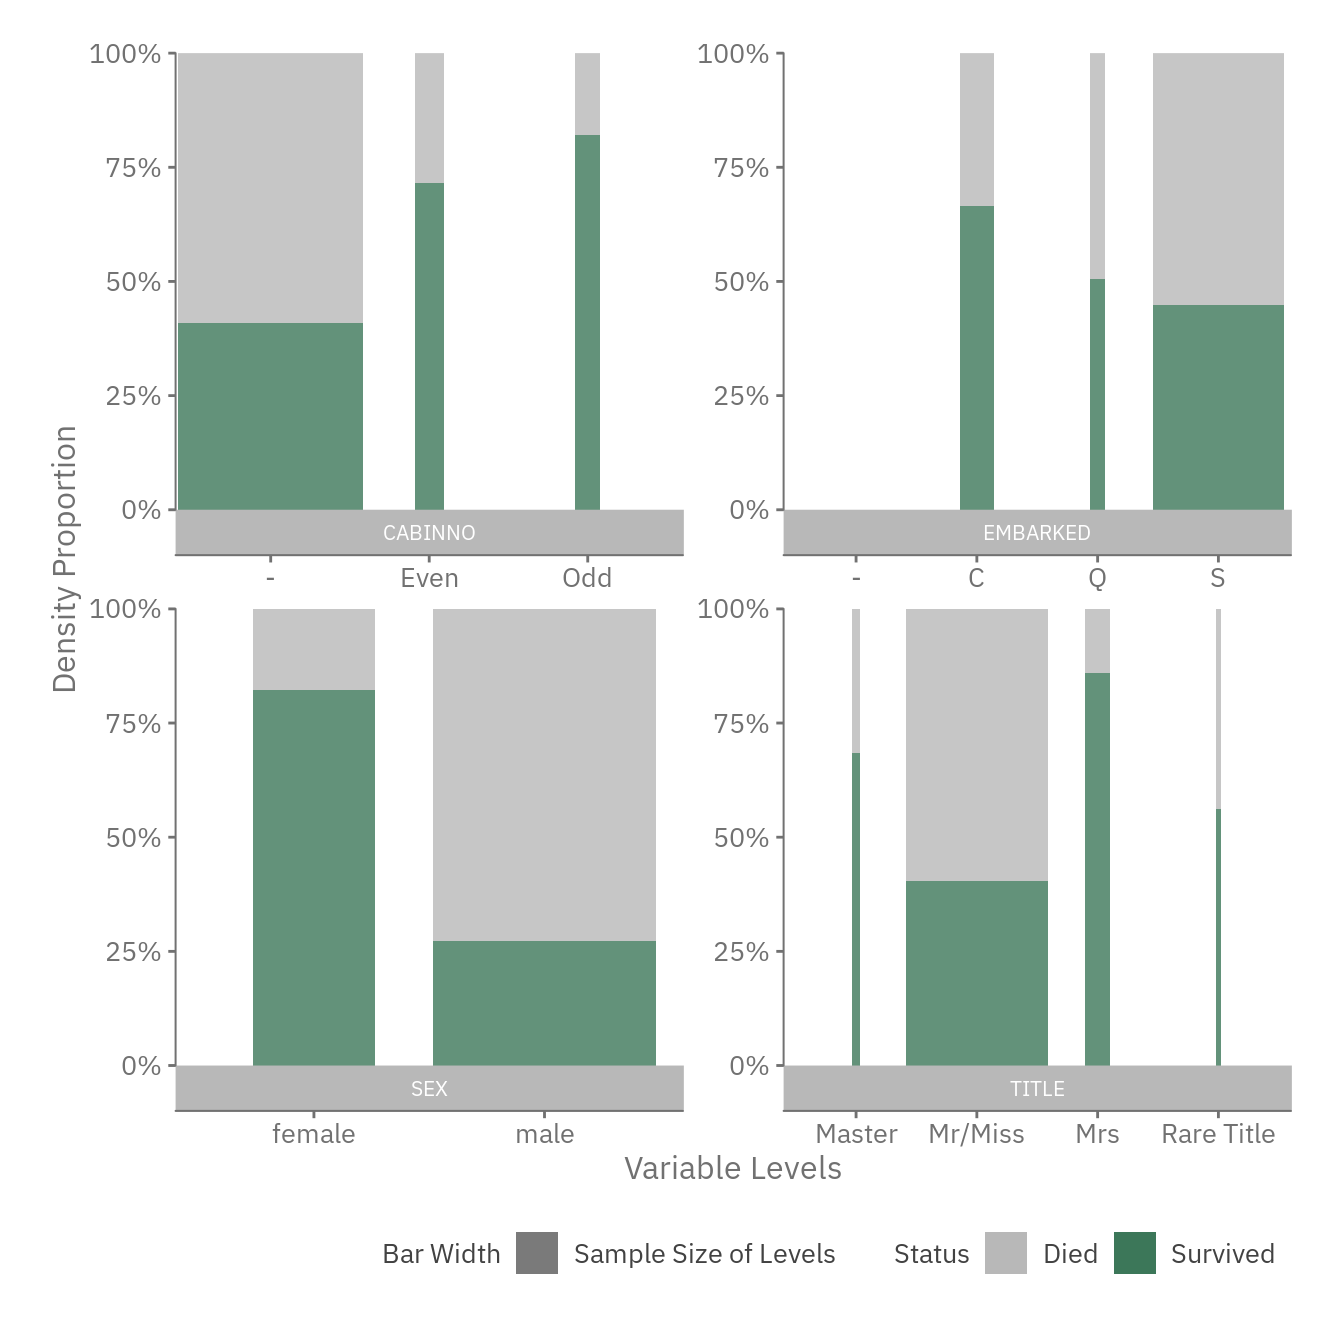
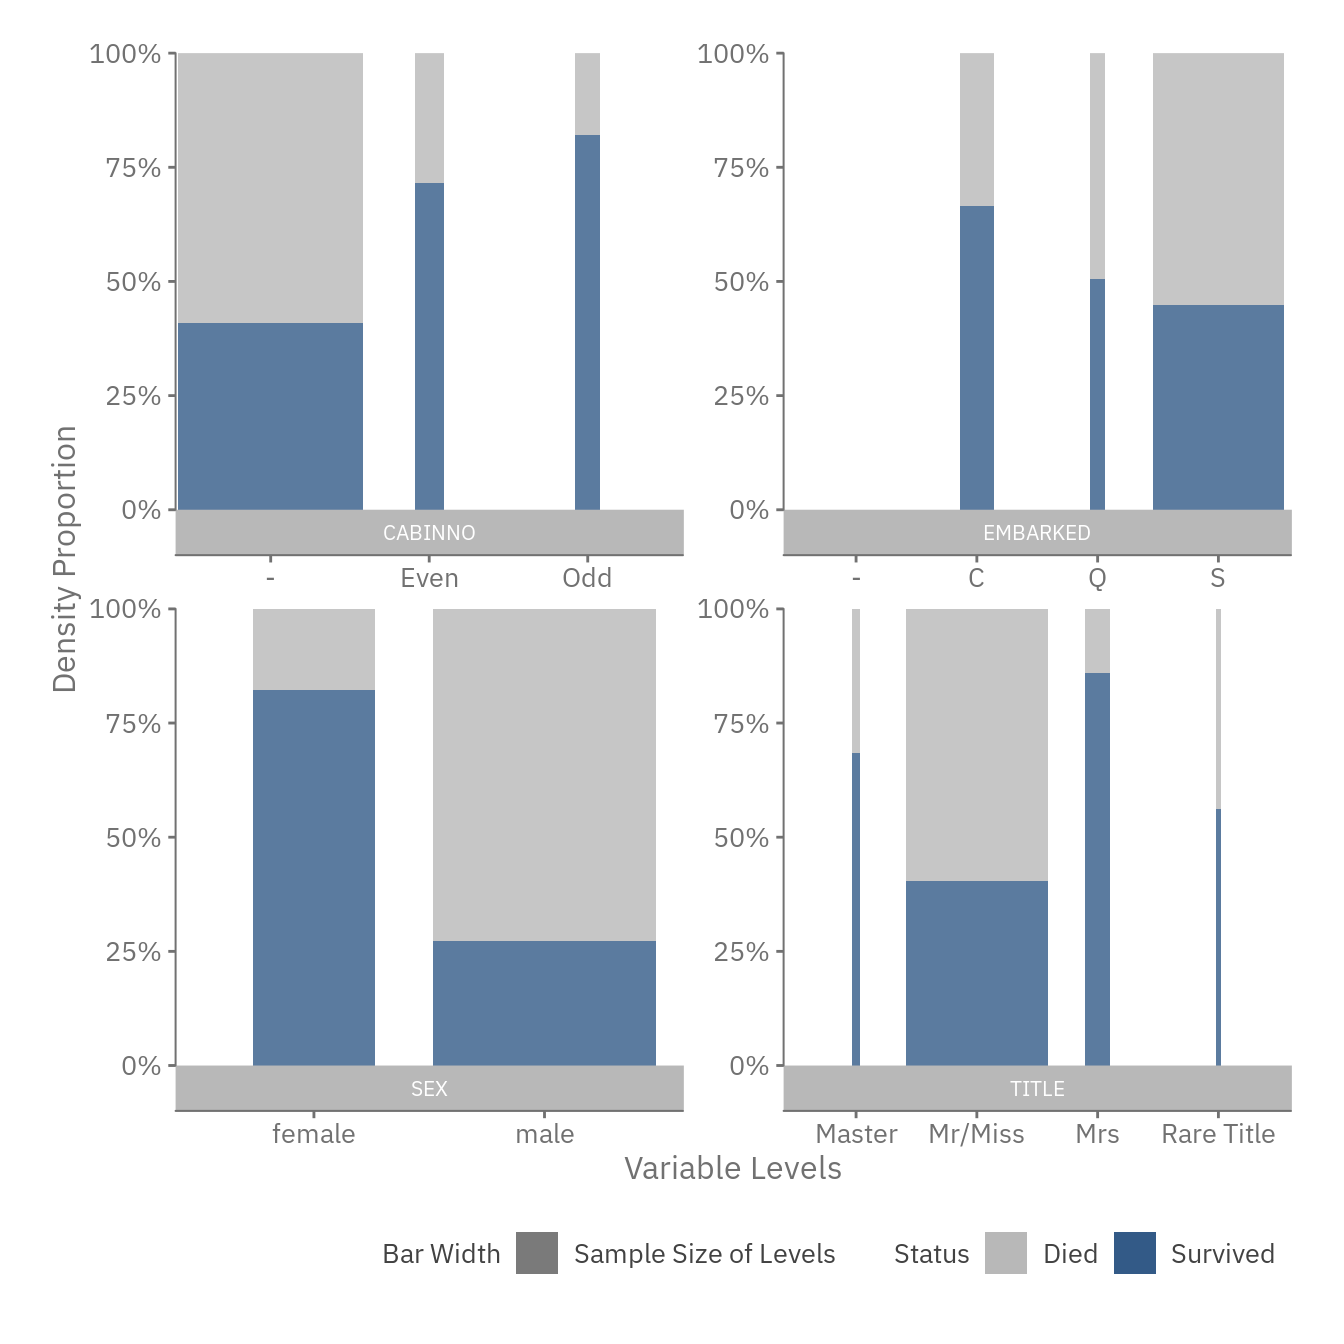
Add tabs and change some coloring

diff --git a/index.html b/index.html
@@ -522,7 +522,7 @@ snapshot &lt;- data_snapshot(features %&gt;% mutate(Survived = Survived %&gt;% f
 suppressMessages(for (p in snapshot) {
   { p +
   scale_fill_manual(name = &quot;Status&quot;,
-                    values=c(`0`=`@c`(ltxt,0.5),`1`=`@c`(green)),
+                    values=c(`0`=`@c`(ltxt,0.5),`1`=`@c`(1)),
                     labels=c(`0`=&quot;Died&quot;,`1`=&quot;Survived&quot;)) } %&gt;% plot
 })</code></pre>
 <p><img src="index_files/figure-html/unnamed-chunk-8-1.png" width="672" style="display: block; margin: auto;" /><img src="index_files/figure-html/unnamed-chunk-8-2.png" width="672" style="display: block; margin: auto;" /></p>
@@ -715,12 +715,12 @@ save_predictions &lt;- function(m.gam, id=&quot;opt&quot;) {
 save_predictions(opt.gam)
 save_predictions(onese.gam, &quot;onese&quot;)
   
-cat(&quot;Null Classifier Error Rate: &quot;, scales::percent(1.-0.62679),&quot;\n&quot;,
-    &quot;Optimal GAM Test Error Rate: &quot;, scales::percent(1.-0.77990),&quot;\n&quot;,
-    &quot;One SE GAM Test Error Rate: &quot;, scales::percent(1.-0.79425),&quot;\n&quot;)</code></pre>
-<pre><code>## Null Classifier Error Rate:  37.3% 
-##  Optimal GAM Test Error Rate:  22% 
-##  One SE GAM Test Error Rate:  20.6%</code></pre>
+cat(paste0(&quot;Null Classifier\tTest Error Rate: &quot;, scales::percent(1.-0.62679),&quot;\n&quot;,
+    &quot;Optimal GAM\t\tTest Error Rate: &quot;, scales::percent(1.-0.77990),&quot;\n&quot;,
+    &quot;One SE GAM\t\tTest Error Rate: &quot;, scales::percent(1.-0.79425),&quot;\n&quot;))</code></pre>
+<pre><code>## Null Classifier  Test Error Rate: 37.3%
+## Optimal GAM      Test Error Rate: 22%
+## One SE GAM       Test Error Rate: 20.6%</code></pre>
 </section>
 </section>
 <section id="interpretation" class="level4">

diff --git a/README.md b/README.md
@@ -408,7 +408,7 @@ snapshot <- data_snapshot(features %>% mutate(Survived = Survived %>% factor), S
 suppressMessages(for (p in snapshot) {
   { p +
   scale_fill_manual(name = "Status",
-                    values=c(`0`=`@c`(ltxt,0.5),`1`=`@c`(green)),
+                    values=c(`0`=`@c`(ltxt,0.5),`1`=`@c`(1)),
                     labels=c(`0`="Died",`1`="Survived")) } %>% plot
 })
 ```
@@ -610,14 +610,14 @@ save_predictions <- function(m.gam, id="opt") {
 save_predictions(opt.gam)
 save_predictions(onese.gam, "onese")
   
-cat("Null Classifier Error Rate: ", scales::percent(1.-0.62679),"\n",
-    "Optimal GAM Test Error Rate: ", scales::percent(1.-0.77990),"\n",
-    "One SE GAM Test Error Rate: ", scales::percent(1.-0.79425),"\n")
+cat(paste0("Null Classifier\tTest Error Rate: ", scales::percent(1.-0.62679),"\n",
+    "Optimal GAM\t\tTest Error Rate: ", scales::percent(1.-0.77990),"\n",
+    "One SE GAM\t\tTest Error Rate: ", scales::percent(1.-0.79425),"\n"))
 ```
 
-    ## Null Classifier Error Rate:  37.3% 
-    ##  Optimal GAM Test Error Rate:  22% 
-    ##  One SE GAM Test Error Rate:  20.6%
+    ## Null Classifier  Test Error Rate: 37.3%
+    ## Optimal GAM      Test Error Rate: 22%
+    ## One SE GAM       Test Error Rate: 20.6%
 
 #### Interpretation
 
